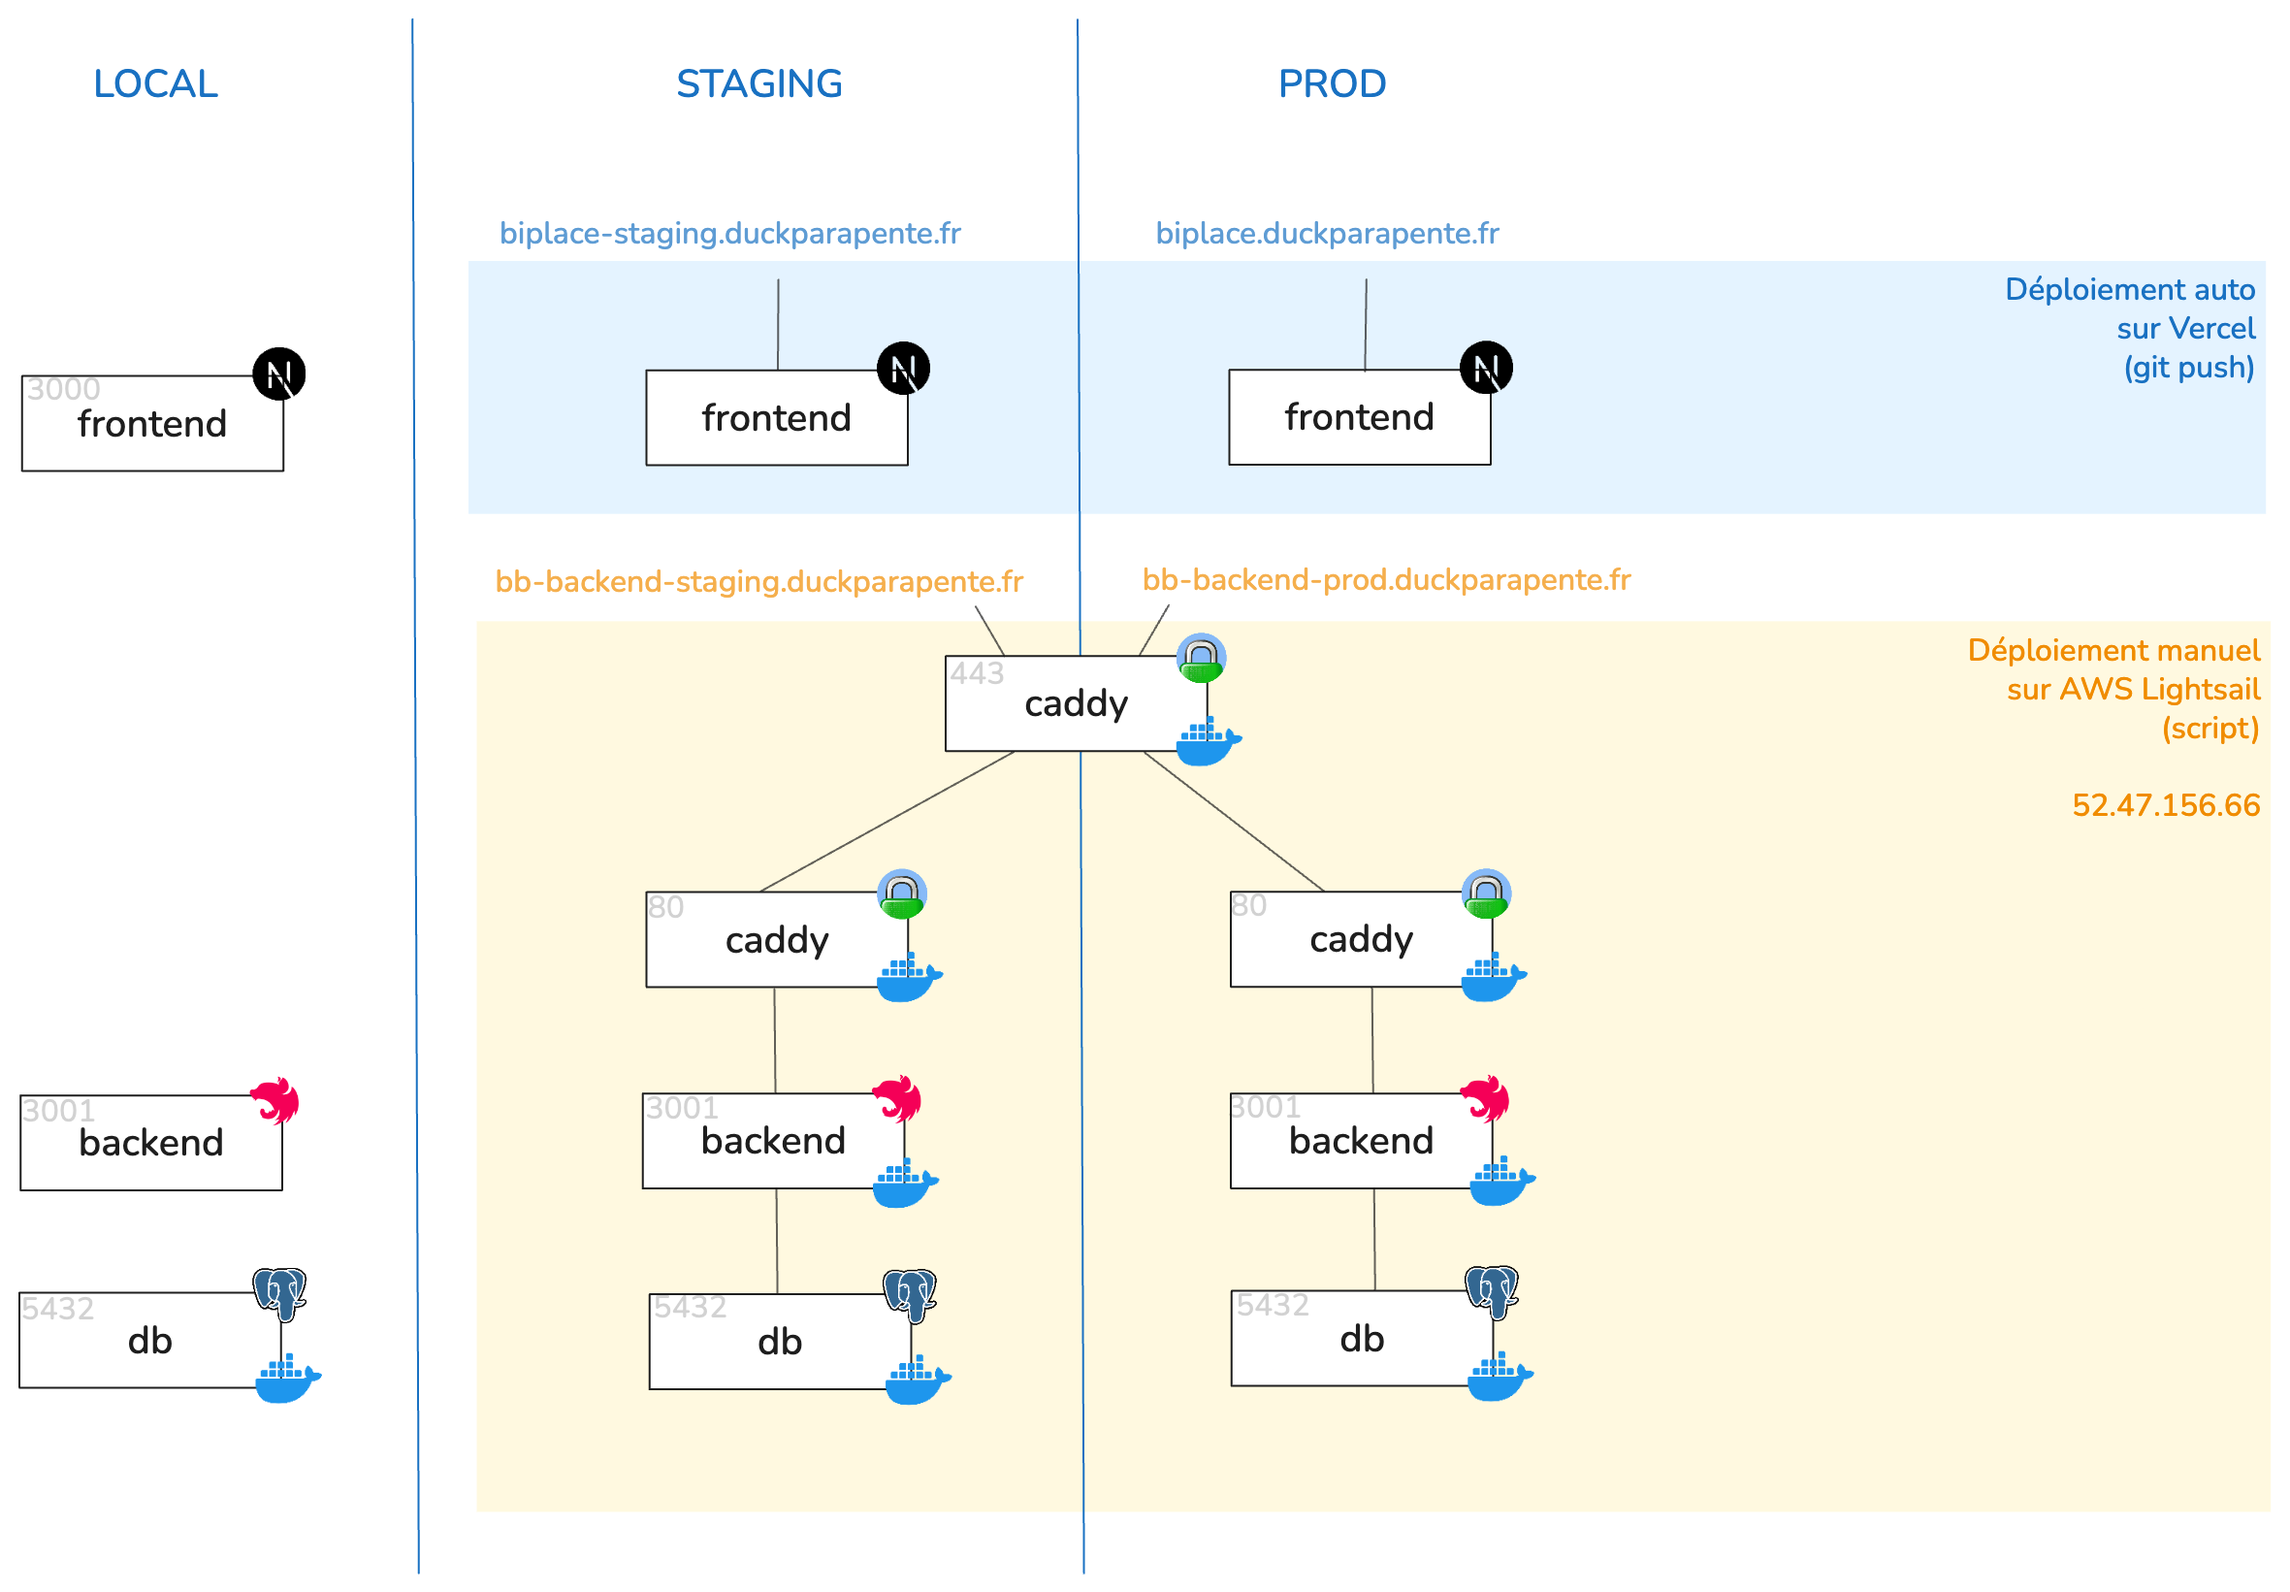
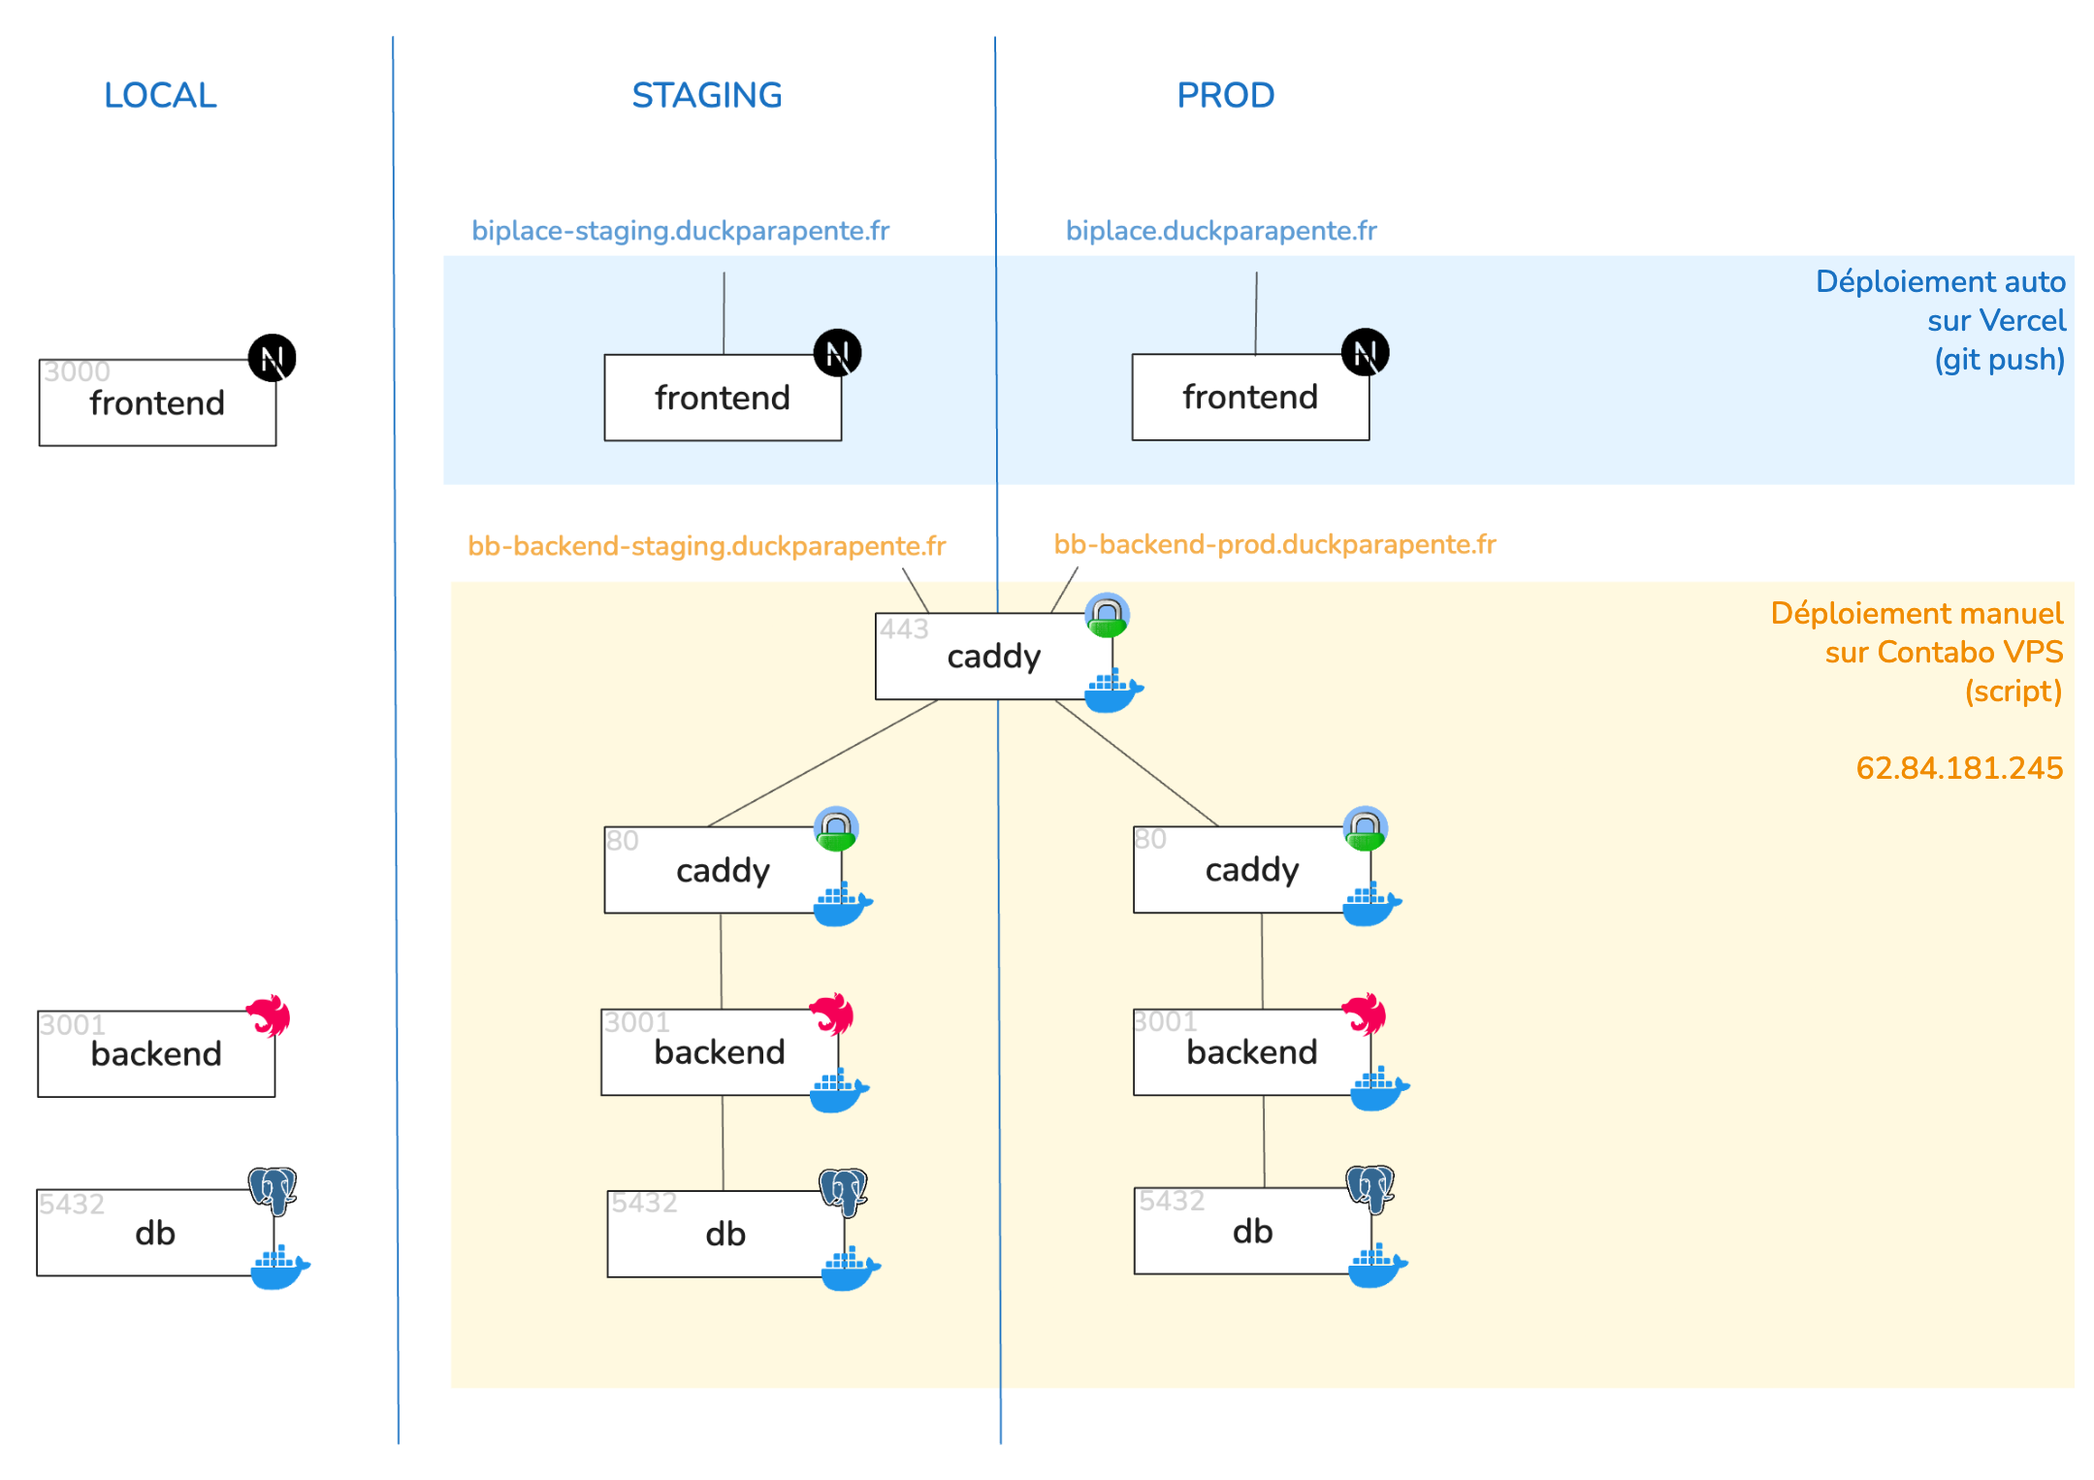
add bruno

diff --git a/README.md b/README.md
@@ -16,6 +16,7 @@ Le repo utilise turborepo pour optimiser les builds, etc.
 
 ## Tooling
 
+- Bruno pour tester nos routes HTTP (cf. dossier bruno)
 - Gmail: l'adresse gestion.biplace.duckparapente@gmail.com a été créée pour:
     - administrer les autres outils (Vercel, Newrelic, Auth0, etc.)
     - éventuellement permettre de recevoir des questions/retours des utilisateurs
@@ -23,4 +24,4 @@ Le repo utilise turborepo pour optimiser les builds, etc.
 - [Auth0](https://manage.auth0.com/dashboard/eu/biplace-duckparapente/applications), qui fournit un système d'authentification avec un plan gratuit (jusqu'à 25.000 utilisateurs).
 - [NewRelic](https://one.eu.newrelic.com/logger?account=7279493&duration=1800000&state=67344c39-0ea6-054f-a3c4-6dc9061ab82c) pour les logs/APM.
 - [Posthog](https://us.posthog.com/project/241216/error_tracking?filterTestAccounts=true&filterGroup=%7B%22type%22%3A%22AND%22%2C%22values%22%3A%5B%7B%22type%22%3A%22AND%22%2C%22values%22%3A%5B%7B%22key%22%3A%22%24current_url%22%2C%22value%22%3A%22localhost%22%2C%22operator%22%3A%22not_icontains%22%2C%22type%22%3A%22event%22%7D%5D%7D%5D%7D) pour suivre l'error tracking et les sessions replays.
-- Enfin, [AWS](https://console.aws.amazon.com/) pour gérer l'instance AWS Lightsail (pour l'instant administrée sur le compte perso de JP)
+- Enfin, [Contabo](https://new.contabo.com/servers/vps) pour gérer l'instance VPS Contabo (pour l'instant administrée sur le compte perso de JP)

diff --git a/infra/docs/infrastructure.md b/infra/docs/infrastructure.md
@@ -7,7 +7,7 @@
 
 Pour lancer le projet, il te faut:
 - docker avec le plugin compose (docker-compose est déprécié)
-- pour le serveur AWS, il faut en plus créer un réseau proxy `docker network create proxy` (valable uniquement pour une installation from scratch)
+- pour le serveur Contabo, il faut en plus créer un réseau proxy `docker network create proxy` (valable uniquement pour une installation from scratch)
 
 ### Comment développer en local?
 
@@ -25,7 +25,7 @@ Rien de plus simple:
     Hostname 52.47.156.66
     User ec2-user
     PreferredAuthentications publickey
-    IdentityFile ~/.ssh/aws-duck-tower.pem
+    IdentityFile ~/.ssh/duck-tower.pem
     ```
 - Chaque environnement a son dossier spécifique:
     - staging: `/srv/staging-biplace`
